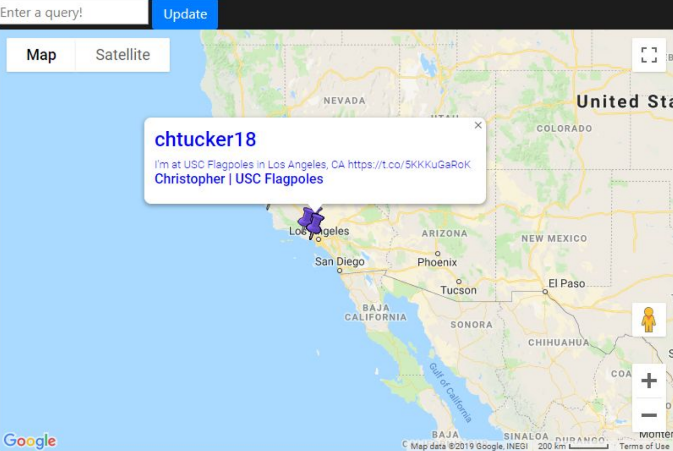
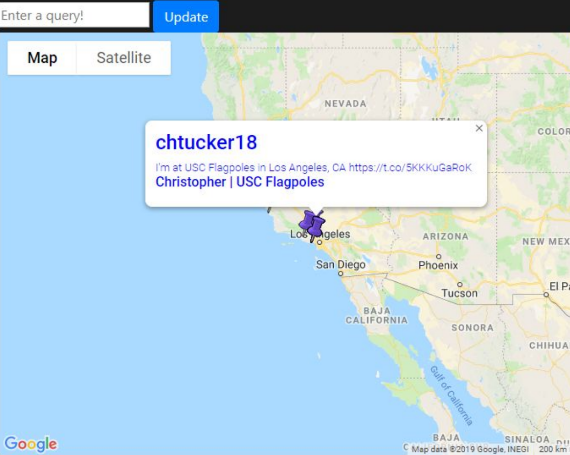
Updated project images to be 5 by 4 resolution

Changed region(s): [[0.0, 0.0, 1.0, 1.0], [0.0, 0.9623, 0.1193, 1.0]]

diff --git a/projects.html b/projects.html
@@ -8,27 +8,49 @@ description: A portfolio of some of my coding projects in the past few years.
     <!-- Figure out how many elements need to go in each of the 2 columns -->
     {% assign elements = site.data.projects.size | divided_by: 2 %}
 
-    <div class="column has-text-centered is-paddingless">
+    <div class="column has-text-centered">
     {% for project in site.data.projects limit:elements %}
-        <div class="project">
-            <img class="project__image" src="{{ project.image_url | absolute_url }}" alt="{{ project.image_alt }}" height=350 width=500>
-            <div class="project__description">
-                <h2>{{ project.title }}</h2>
-                <p>{{ project.description }}</p>
-            </div>
+        <div class="box">
+            <figure class="image is-5by4">
+                <img class="project__image" src="{{ project.image_url | absolute_url }}" alt="{{ project.image_alt }}">
+            </figure>
         </div>
     {% endfor %}
     </div>
 
-    <div class="column has-text-centered is-paddingless">
+    <div class="column has-text-centered">
     {% for project in site.data.projects offset:elements %}
-        <div class="project">
-            <img class="project__image" src="{{ project.image_url | absolute_url }}" alt="{{ project.image_alt }}" height=350 width=500>
-            <div class="project__description">
-                <h2>{{ project.title }}</h2>
-                <p>{{ project.description }}</p>
-            </div>
+        <div class="box">
+            <figure class="image is-5by4">
+                <img class="project__image" src="{{ project.image_url | absolute_url }}" alt="{{ project.image_alt }}">
+            </figure>
         </div>
     {% endfor %}
     </div>
 </div>
+
+<!-- <div class="column has-text-centered">
+        {% for project in site.data.projects limit:elements %}
+            <div class="box">
+                <figure class="image is-3by2">
+                    <img class="project__image" src="{{ project.image_url | absolute_url }}" alt="{{ project.image_alt }}" height=350 width=500>
+                </figure>
+                <div class="project__description">
+                    <h2>{{ project.title }}</h2>
+                    <p>{{ project.description }}</p>
+                </div>
+            </div>
+        {% endfor %}
+        </div>
+    
+        <div class="column has-text-centered">
+        {% for project in site.data.projects offset:elements %}
+            <div class="project box">
+                <img class="project__image" src="{{ project.image_url | absolute_url }}" alt="{{ project.image_alt }}" height=350 width=500>
+                <div class="project__description">
+                    <h2>{{ project.title }}</h2>
+                    <p>{{ project.description }}</p>
+                </div>
+            </div>
+        {% endfor %}
+        </div> -->

diff --git a/_sass/bulma-config.scss b/_sass/bulma-config.scss
@@ -1,3 +1,5 @@
+/* Box Configuration */
+
 /* Navbar Configuration */
 $navbar-background-color: transparent;
 $navbar-item-color: white;
@@ -12,5 +14,7 @@ $navbar-item-hover-background-color: transparent;
 @import "bulma/sass/utilities/_all";
 @import "bulma/sass/components/navbar";
 @import "bulma/sass/elements/icon";
+@import "bulma/sass/elements/image";
+@import "bulma/sass/elements/box";
 @import "bulma/sass/base/helpers";
 @import "bulma/sass/grid/columns";
